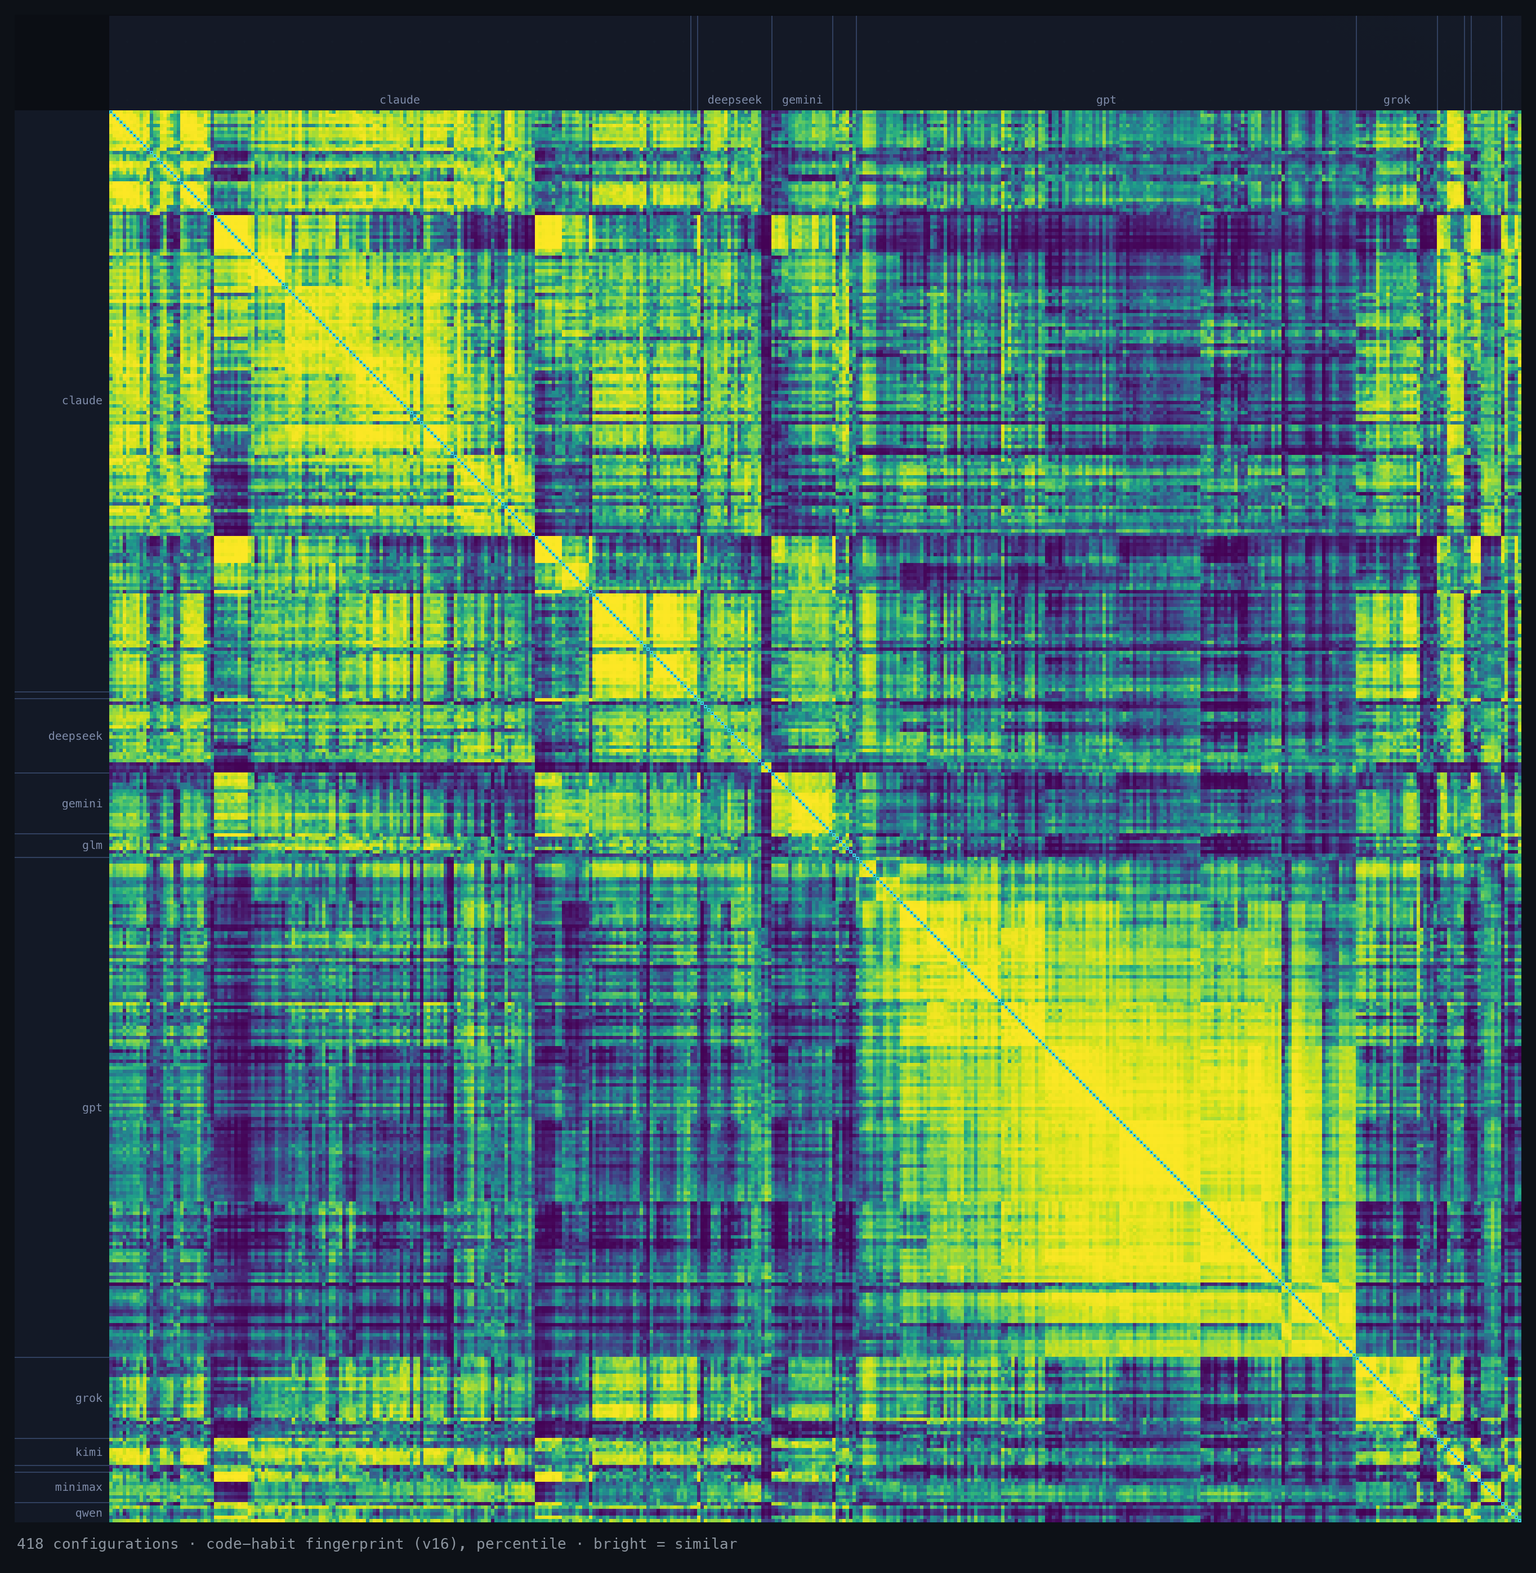
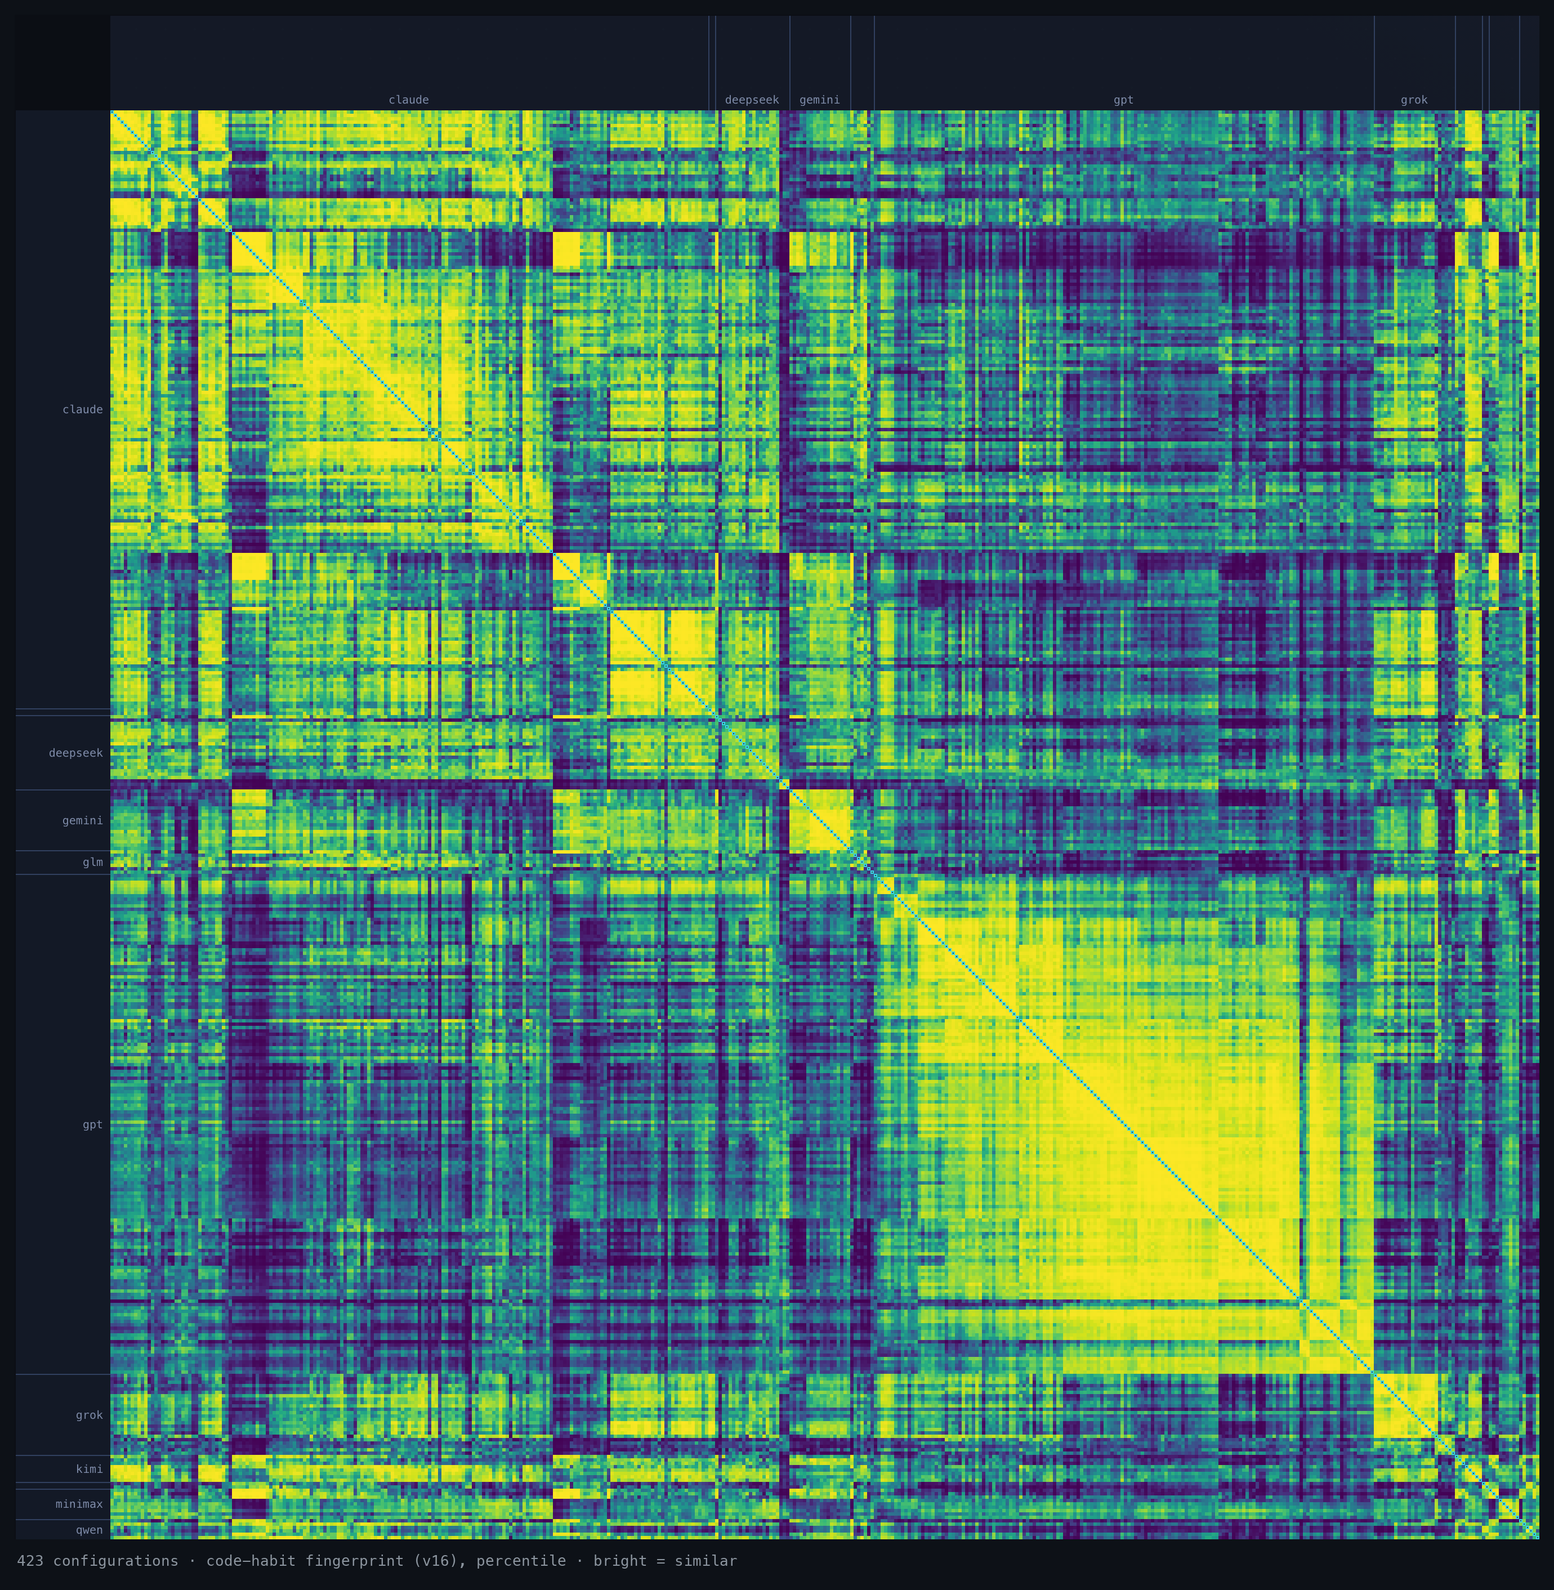
align public artifacts with the 615-config board (Claude Fable 5.2: Claude Code arm)
Figures restated on the new set; all moves are within ±0.02 and no finding
changes. The matrix image is recaptured (423-config harness view), and the
dataset pack link points at the 2026-11-10 pack. data/findings.json had been
left at the 599-config text; it now matches the live findings page.

diff --git a/README.zh.md b/README.zh.md
@@ -43,7 +43,7 @@ MIT
 ## 这张地图
 
 <div align="center">
-<img src="docs/matrix.png" alt="config 对 config 代码习惯指纹热力图(610 config 集的 418 config harness 视图)" width="82%">
+<img src="docs/matrix.png" alt="config 对 config 代码习惯指纹热力图(615 config 集的 423 config harness 视图)" width="82%">
 </div>
 
 每个被测 configuration 对上其余每一个,用的是代码习惯指纹。亮 = 相似,暗 = 分化。对角线上的亮块是各**模型家族**在自我聚类;那条细亮对角线是每个 config 的**自一致性**(一个模型和它*自己*重跑之间有多像)。这里的相似度是**测量,不是质量分** —— 它只刻画收敛,别无其他。
@@ -52,27 +52,27 @@ MIT
 
 > **这个数是什么。** 每一对 configuration 在十条代码通道上比较 —— token shingle、winnowing 指纹、特征集合、JS 语法树、CSS 属性与取值、布局、命名、颜色字面量、语义标记。先去掉卡片体积的影响:原始相似度取决于两张卡有多长,所以每一对都和"同样两种体积的配对"的平均值比较。再扣掉每个 config"和谁都有点像"的四分之一,按"这条通道多能区分模型"学出来的权重合并,最后显示为**在全部跨配对中的百分位**:0.50 是两个不同厂商的一对典型配对,同一模型的两个 config 大约在 0.97。像素是单独的**外观**视角,不进这个分数;**风格**视角只看代码里写出来的样子(颜色、CSS 取值、布局、命名、语义标记)。百分位相对于当前集合,集合变了就重新拟合。
 >
-> 为什么看代码不看像素:在按模型留出的交叉验证里,指纹认出同一模型的 **AUC 是 0.92**,认出同一家族 **0.74**,跨 effort 档认出同一模型 **0.91**;风格视角是 **0.85 / 0.67**,外观视角只有 **0.74 / 0.56**,旧的全通道等权合并是 **0.87 / 0.68**。卡片*长什么样*,各家越来越趋同;*怎么写*,则不然。
+> 为什么看代码不看像素:在按模型留出的交叉验证里,指纹认出同一模型的 **AUC 是 0.92**,认出同一家族 **0.73**,跨 effort 档认出同一模型 **0.92**;风格视角是 **0.85 / 0.67**,外观视角只有 **0.74 / 0.56**,旧的全通道等权合并是 **0.87 / 0.68**。卡片*长什么样*,各家越来越趋同;*怎么写*,则不然。
 >
 > **一处更正。** 这个分数的第一版(v15,上线了几天)把每个 config"和谁都像"的部分整个扣掉。这会把和谁都不像的 config —— 多是又长又高 effort 的卡 —— 推到一起,而这里发布过的两条发现正建立在它上面:高 effort 的 Claude 和 GPT 写法趋同,以及 DeepSeek V4.1 落在这个"前沿区"。直接处理卡片体积之后,两条都不成立,已撤回。方法论页有完整对比。
 
-下面的数字都是 610 个 configuration 集上的百分位,给两个数时是 `P-min` / `P-q`。是信号不是证明:单一 prompt 家族,而且有些模型 config 很少 —— 这些都标出来了。下面每一条在我们测过的、认人能力不低于它的各种评分方案下都成立,不只是这里显示的这一种。
+下面的数字都是 615 个 configuration 集上的百分位,给两个数时是 `P-min` / `P-q`。是信号不是证明:单一 prompt 家族,而且有些模型 config 很少 —— 这些都标出来了。下面每一条在我们测过的、认人能力不低于它的各种评分方案下都成立,不只是这里显示的这一种。
 
-- **家族是真实的分组。** 一个 config 和自己重跑最像(`P-min` 上 **0.94**),和自家家族次之(**0.70**),和别家最不像(**0.44**)。
-- **Claude 2025 年的写法,比 Claude 自己活得久。** Claude Sonnet 4 / 4.5、Opus 4.5、Haiku 4.5 和 MiniMax M2.1–M2.7、豆包 Seed 2.1 Pro、Grok 4.3、DeepSeek V3.2、Qwen3-Coder-Next、Gemini 3 Flash / 3.1 Pro 组成一个紧密的簇:跨厂商配对在两个 prompt 上是 **0.87–1.00**,MiniMax 是 **0.98 / 0.98** —— 和同一模型的两个 config 一样近 —— 跨 harness、跨 effort、十条代码通道全部一致。Claude 自己却走开了:Claude 4.5 对 Claude Opus 4.8 / Claude 5 只有 **0.24 / 0.15**,比两个不相干的厂商还远。一行标志性代码 `const today = new Date().toISOString().split('T')[0];` 出现在 63% 的 Claude Sonnet 4/4.5 卡、34% 的其他成员卡里,而 571 张 Claude Opus 4.8+ 卡一张都没有。同时期的 GPT 从未加入。
-- **有的厂商换代就换了一手写法。** DeepSeek V4.1 对所有更早的 DeepSeek:**0.54 / 0.47** —— 相当于不相干的一对 —— 而它自己的两个构建之间是 **0.76 / 0.74**。Kimi K3 对 Kimi K2.x:**0.55 / 0.63**;K3 反而更靠近 Claude Fable 5 / Opus 4.8(**0.90 / 0.82**,400+ 个 config 对)。GPT-6 对 GPT-5.x 是 **0.77 / 0.73**,普通的同家族水平。
+- **家族是真实的分组。** 一个 config 和自己重跑最像(`P-min` 上 **0.94**),和自家家族次之(**0.69**),和别家最不像(**0.44**)。
+- **Claude 2025 年的写法,比 Claude 自己活得久。** Claude Sonnet 4 / 4.5、Opus 4.5、Haiku 4.5 和 MiniMax M2.1–M2.7、豆包 Seed 2.1 Pro、Grok 4.3、DeepSeek V3.2、Qwen3-Coder-Next、Gemini 3 Flash / 3.1 Pro 组成一个紧密的簇:跨厂商配对在两个 prompt 上是 **0.86–1.00**,MiniMax 是 **0.98 / 0.99** —— 和同一模型的两个 config 一样近 —— 跨 harness、跨 effort、十条代码通道全部一致。Claude 自己却走开了:Claude 4.5 对 Claude Opus 4.8 / Claude 5 只有 **0.25 / 0.15**,比两个不相干的厂商还远。一行标志性代码 `const today = new Date().toISOString().split('T')[0];` 出现在 63% 的 Claude Sonnet 4/4.5 卡、34% 的其他成员卡里,而 591 张 Claude Opus 4.8+ 卡一张都没有。同时期的 GPT 从未加入。
+- **有的厂商换代就换了一手写法。** DeepSeek V4.1 对所有更早的 DeepSeek:**0.55 / 0.47** —— 相当于不相干的一对 —— 而它自己的两个构建之间是 **0.76 / 0.74**。Kimi K3 对 Kimi K2.x:**0.56 / 0.63**;K3 反而更靠近 Claude Fable 5 / Opus 4.8(**0.90 / 0.82**,400+ 个 config 对)。GPT-6 对 GPT-5.x 是 **0.78 / 0.73**,普通的同家族水平。
 - **高 effort 写得更"防御"。** 直接数卡片里的代码:`prefers-reduced-motion` 处理、用 `AbortController` 中止过期请求,出现在 55–69% 的高 effort(xhigh 及以上)Claude Opus 5.x 和 GPT Sol 卡里,低 effort 的 GPT Sol 卡只有 0–2%。DeepSeek V4.1 1017 的 API 卡有 25–33% 这样写,DeepSeek 自家 dsh harness 出的卡是 88%。在整份代码的指纹上,这**并不**让这些模型变得相像 —— 这是三种写法,不是共同的风格。
-- **代码是模型写的,不是 harness 写的。** 同一模型同一 effort 换一个 harness,是 **0.99 / 0.99** —— 和它自己重跑一样(**0.98 / 0.99**)—— 两个不同家族的模型共用一个 harness 只多约 5 个点(**0.478** 对 **0.424**),而"同一模型"和"不同厂商"之间差了约 50 个点。harness 真正改变的是体量。
-- **有些模型和自己都不像。** `deepseek-v4-flash-vision-exp @high`(`P-min` 上 **0.36**)、`kimi-k2.7-code`(**0.43**)和 `kimi-k3 @high`(**0.50 / 0.47**)自一致性最低 —— 多数重跑画得都不一样。全集有 119 个 config 拿得到读数:它需要同一 config 在同一变体下有好几次重跑。
+- **代码是模型写的,不是 harness 写的。** 同一模型同一 effort 换一个 harness,是 **0.99 / 0.99** —— 和它自己重跑一样(**0.98 / 0.99**)—— 两个不同家族的模型共用一个 harness 只多约 5 个点(**0.481** 对 **0.425**),而"同一模型"和"不同厂商"之间差了约 50 个点。harness 真正改变的是体量。
+- **有些模型和自己都不像。** `deepseek-v4-flash-vision-exp @high`(`P-min` 上 **0.38**)、`kimi-k2.7-code`(**0.44**)和 `kimi-k3 @high`(**0.51 / 0.46**)自一致性最低 —— 多数重跑画得都不一样。全集有 119 个 config 拿得到读数:它需要同一 config 在同一变体下有好几次重跑。
 
 **值得一提的配对** —— 信号强,但样本小:
 
-- **Qwen3.8-Max-Preview 写得像 Claude Opus 4.6**(**0.99 / 0.99**,比像任何 Qwen 都近),连 HTML 转义 helper `var d = document.createElement('div')` 都一样 —— 64% 的 Opus 4.6 卡有它,别处几乎没有。只有一个 config、4 张卡。MiMo-V2.5-Pro 也有同样的拉力(**0.92 / 0.90**,66 个 config 对)。
-- **Cursor 的 Composer 2.5 写得像 Grok 4.5**(**0.99 / 0.98**,跨四个 Grok harness),CSS 词汇一模一样(`--bg-deep`、`--card-bg: rgba(255,255,255,0.07)`);`--bg-deep` 在其余 2,591 张卡里只出现 3 次。只有一个 config、8 张卡。
+- **Qwen3.8-Max-Preview 写得像 Claude Opus 4.6**(**0.99 / 1.00**,比像任何 Qwen 都近),连 HTML 转义 helper `var d = document.createElement('div')` 都一样 —— 64% 的 Opus 4.6 卡有它,别处几乎没有。只有一个 config、4 张卡。MiMo-V2.5-Pro 也有同样的拉力(**0.92 / 0.90**,66 个 config 对)。
+- **Cursor 的 Composer 2.5 写得像 Grok 4.5**(**0.99 / 0.98**,跨四个 Grok harness),CSS 词汇一模一样(`--bg-deep`、`--card-bg: rgba(255,255,255,0.07)`);`--bg-deep` 在其余 2,611 张卡里只出现 3 次。只有一个 config、8 张卡。
 
 **厂商在固定型号名下换掉了模型 —— 几把尺子对此意见不一。** DeepSeek 于 2026-07-31 对 `deepseek-v4-flash` 重做了 post-training,API 型号名不变(官方原话:架构与参数量不变,"only re-post-trained")。我们手上有一份 **2026-07-19** 的采集,正好在更新之前,于是两个纪元并排留在集合里。
 
-在**代码指纹**上,这次变化几乎看不出来:`high` 档两个纪元互相是 **0.89 / 0.93**,而各自重跑在 **0.95–0.99**;`max` 档互相是 **0.93 / 0.94**,重跑是 **0.89–0.96** —— 落在噪声里。
+在**代码指纹**上,这次变化几乎看不出来:`high` 档两个纪元互相是 **0.90 / 0.93**,而各自重跑在 **0.95–0.99**;`max` 档互相是 **0.93 / 0.94**,重跑是 **0.89–0.96** —— 落在噪声里。
 
 但在**输出体积**这条轴上,同一个变化明显到无法忽视。**同一个 effort 档位**下,新纪元的 completion token 涨了 **2–4 倍** —— `high`/`P-min` 中位数 6,546 → 25,972(**4.0×**),`high`/`P-q` 12,376 → 52,332(**4.2×**)—— 而且四格里有三格两个纪元的 token 区间**完全不相交**(逐 slot 两两比较,P(新 > 旧) = **0.961**)。它那两个失败的 slot 正是同一效应的尾巴:写到撑破厂商 65,536 的输出上限还没收尾。
 
@@ -130,8 +130,8 @@ cd site && npm install && npm run dev   # http://localhost:3000
 
 **完整集**可在线浏览,也能作为单个 pack 下载:
 
-- **完整数据集** → <https://weathercard.secondfirst.ai/downloads/wcb-full-dataset-2026-10-27.tar.gz>
-  (~1.8 GB,sha256 `8055969b…251f3b`)。解压出 `2026-07-19--unified/` + `index.json`;把 `WCB_DATA_ROOT` 指向解压目录即可在本地跑整套。
+- **完整数据集** → <https://weathercard.secondfirst.ai/downloads/wcb-full-dataset-2026-11-10.tar.gz>
+  (~1.8 GB,sha256 `8e3d395b…fbc73a`)。解压出 `2026-07-19--unified/` + `index.json`;把 `WCB_DATA_ROOT` 指向解压目录即可在本地跑整套。
 
 ## 目录
 

diff --git a/README.md b/README.md
@@ -62,7 +62,7 @@ they describe *how the code is written*, never where a model came from.
 ## The map
 
 <div align="center">
-<img src="docs/matrix.png" alt="config-vs-config code-habit fingerprint heatmap (418-config harness view of the 610-config set)" width="82%">
+<img src="docs/matrix.png" alt="config-vs-config code-habit fingerprint heatmap (423-config harness view of the 615-config set)" width="82%">
 </div>
 
 Every measured configuration against every other, on the code-habit fingerprint.
@@ -88,8 +88,8 @@ here is a **measurement, not a quality score** — it captures convergence, noth
 > relative to the current set and are refitted when it changes.
 >
 > Why code and not pixels: in leave-models-out cross-validation the fingerprint
-> recognises the same model at **AUC 0.92**, the same family at **0.74**, and the
-> same model *across effort levels* at **0.91**; the style view manages **0.85 /
+> recognises the same model at **AUC 0.92**, the same family at **0.73**, and the
+> same model *across effort levels* at **0.92**; the style view manages **0.85 /
 > 0.67**, the looks view **0.74 / 0.56**, and the old equal-weight merge of every
 > channel **0.87 / 0.68**. How a card
 > *looks* converges across labs; how it is *written* does not.
@@ -101,29 +101,29 @@ here is a **measurement, not a quality score** — it captures convergence, noth
 > that DeepSeek V4.1 sits in that "frontier zone". With card size handled directly
 > neither holds, and both are withdrawn. The methodology page has the comparison.
 
-All figures are percentiles on the 610-configuration set, `P-min` / `P-q` where both
+All figures are percentiles on the 615-configuration set, `P-min` / `P-q` where both
 are given. Signals, not proof: one prompt family, and some models have few configs —
 those are marked. Every finding below holds under each of the scoring variants we
 tested that identify models at least as well as this one, not just the one shown.
 
 - **Family is a real grouping.** A config agrees with its own re-runs most (**0.94**
-  on `P-min`), with its own family next (**0.70**), and with other families least
+  on `P-min`), with its own family next (**0.69**), and with other families least
   (**0.44**).
 - **Claude's 2025 coding style outlived Claude.** Claude Sonnet 4 / 4.5, Opus 4.5 and
   Haiku 4.5 form one tight cluster with MiniMax M2.1–M2.7, Doubao Seed 2.1 Pro, Grok
   4.3, DeepSeek V3.2, Qwen3-Coder-Next and Gemini 3 Flash / 3.1 Pro: cross-lab pairs
-  score **0.87–1.00** on both prompts, MiniMax at **0.98 / 0.98** — as close as two
+  score **0.86–1.00** on both prompts, MiniMax at **0.98 / 0.99** — as close as two
   configs of one model — across harnesses, efforts and all ten code channels. Claude
-  itself moved on: Claude 4.5 against Claude Opus 4.8 / Claude 5 scores **0.24 /
+  itself moved on: Claude 4.5 against Claude Opus 4.8 / Claude 5 scores **0.25 /
   0.15**, farther apart than two unrelated labs. One telltale line,
   `const today = new Date().toISOString().split('T')[0];`, is in 63% of Claude Sonnet
-  4/4.5 cards, 34% of the other members' cards, and in none of 571 Claude Opus 4.8+
+  4/4.5 cards, 34% of the other members' cards, and in none of 591 Claude Opus 4.8+
   cards. GPT models of the same period never joined.
 - **Some labs change hands between generations.** DeepSeek V4.1 against every earlier
-  DeepSeek: **0.54 / 0.47** — an unrelated pair — while its own two builds agree at
-  **0.76 / 0.74**. Kimi K3 against Kimi K2.x: **0.55 / 0.63**; K3 sits closer to Claude
+  DeepSeek: **0.55 / 0.47** — an unrelated pair — while its own two builds agree at
+  **0.76 / 0.74**. Kimi K3 against Kimi K2.x: **0.56 / 0.63**; K3 sits closer to Claude
   Fable 5 / Opus 4.8 (**0.90 / 0.82**, 400+ config pairs). GPT-6 against GPT-5.x stays
-  at **0.77 / 0.73**, an ordinary same-family level.
+  at **0.78 / 0.73**, an ordinary same-family level.
 - **High effort writes defensively.** Counted directly in the cards: `prefers-reduced-motion`
   handling and aborting stale requests with `AbortController` appear in 55–69% of
   high-effort (xhigh and above) Claude Opus 5.x and GPT Sol cards, and in 0–2% of
@@ -134,22 +134,22 @@ tested that identify models at least as well as this one, not just the one shown
 - **The harness doesn't write the code; the model does.** The same model at the same
   effort through a different harness scores **0.99 / 0.99** — the same as its own
   re-runs (**0.98 / 0.99**) — while two different-family models gain only about 5 points
-  from sharing a harness (**0.478** vs **0.424**), against a gap of about 50 between
+  from sharing a harness (**0.481** vs **0.425**), against a gap of about 50 between
   "same model" and "different lab". What the harness does move is the volume.
 - **Some models barely agree with themselves.** `deepseek-v4-flash-vision-exp @high`
-  (**0.36** on `P-min`), `kimi-k2.7-code` (**0.43**) and `kimi-k3 @high` (**0.50 /
-  0.47**) have the lowest self-consistency — a different card most re-runs. 119
+  (**0.38** on `P-min`), `kimi-k2.7-code` (**0.44**) and `kimi-k3 @high` (**0.51 /
+  0.46**) have the lowest self-consistency — a different card most re-runs. 119
   configs have a reading at all: it needs several re-runs of one config in one variant.
 
 **Notable pairs** — strong signals on small samples:
 
-- **Qwen3.8-Max-Preview writes like Claude Opus 4.6** (**0.99 / 0.99**, closer than to
+- **Qwen3.8-Max-Preview writes like Claude Opus 4.6** (**0.99 / 1.00**, closer than to
   any Qwen), down to the same `var d = document.createElement('div')` HTML-escaping
   helper found in 64% of Opus 4.6 cards and almost nowhere else. One config, 4 cards.
   MiMo-V2.5-Pro shows the same pull (**0.92 / 0.90**, 66 config pairs).
 - **Cursor's Composer 2.5 writes like Grok 4.5** (**0.99 / 0.98**, across four Grok
   harnesses), sharing its exact CSS vocabulary (`--bg-deep`,
-  `--card-bg: rgba(255,255,255,0.07)`); `--bg-deep` appears in 3 of the other 2,591
+  `--card-bg: rgba(255,255,255,0.07)`); `--bg-deep` appears in 3 of the other 2,611
   cards. One config, 8 cards.
 
 **A vendor changed a model under a fixed name — and the instruments disagreed about
@@ -159,7 +159,7 @@ capture from **2026-07-19**, before it landed, so both epochs sit in the set sid
 side.
 
 On the **code fingerprint** the change barely registers: at `high` the two epochs
-score **0.89 / 0.93** against each other while each epoch's own re-runs sit at
+score **0.90 / 0.93** against each other while each epoch's own re-runs sit at
 **0.95–0.99**; at `max` they score **0.93 / 0.94** against re-runs of **0.89–0.96** —
 inside noise.
 
@@ -238,8 +238,8 @@ so the repo ships a **flagship subset** — one canonical configuration per fron
 
 The **full set** is browsable live, and downloadable as a single pack:
 
-- **Full dataset** → <https://weathercard.secondfirst.ai/downloads/wcb-full-dataset-2026-10-27.tar.gz>
-  (~1.8 GB, sha256 `8055969b…251f3b`). Extracts to `2026-07-19--unified/` +
+- **Full dataset** → <https://weathercard.secondfirst.ai/downloads/wcb-full-dataset-2026-11-10.tar.gz>
+  (~1.8 GB, sha256 `8e3d395b…fbc73a`). Extracts to `2026-07-19--unified/` +
   `index.json`; point `WCB_DATA_ROOT` at the extracted directory to serve the
   whole set locally.
 
